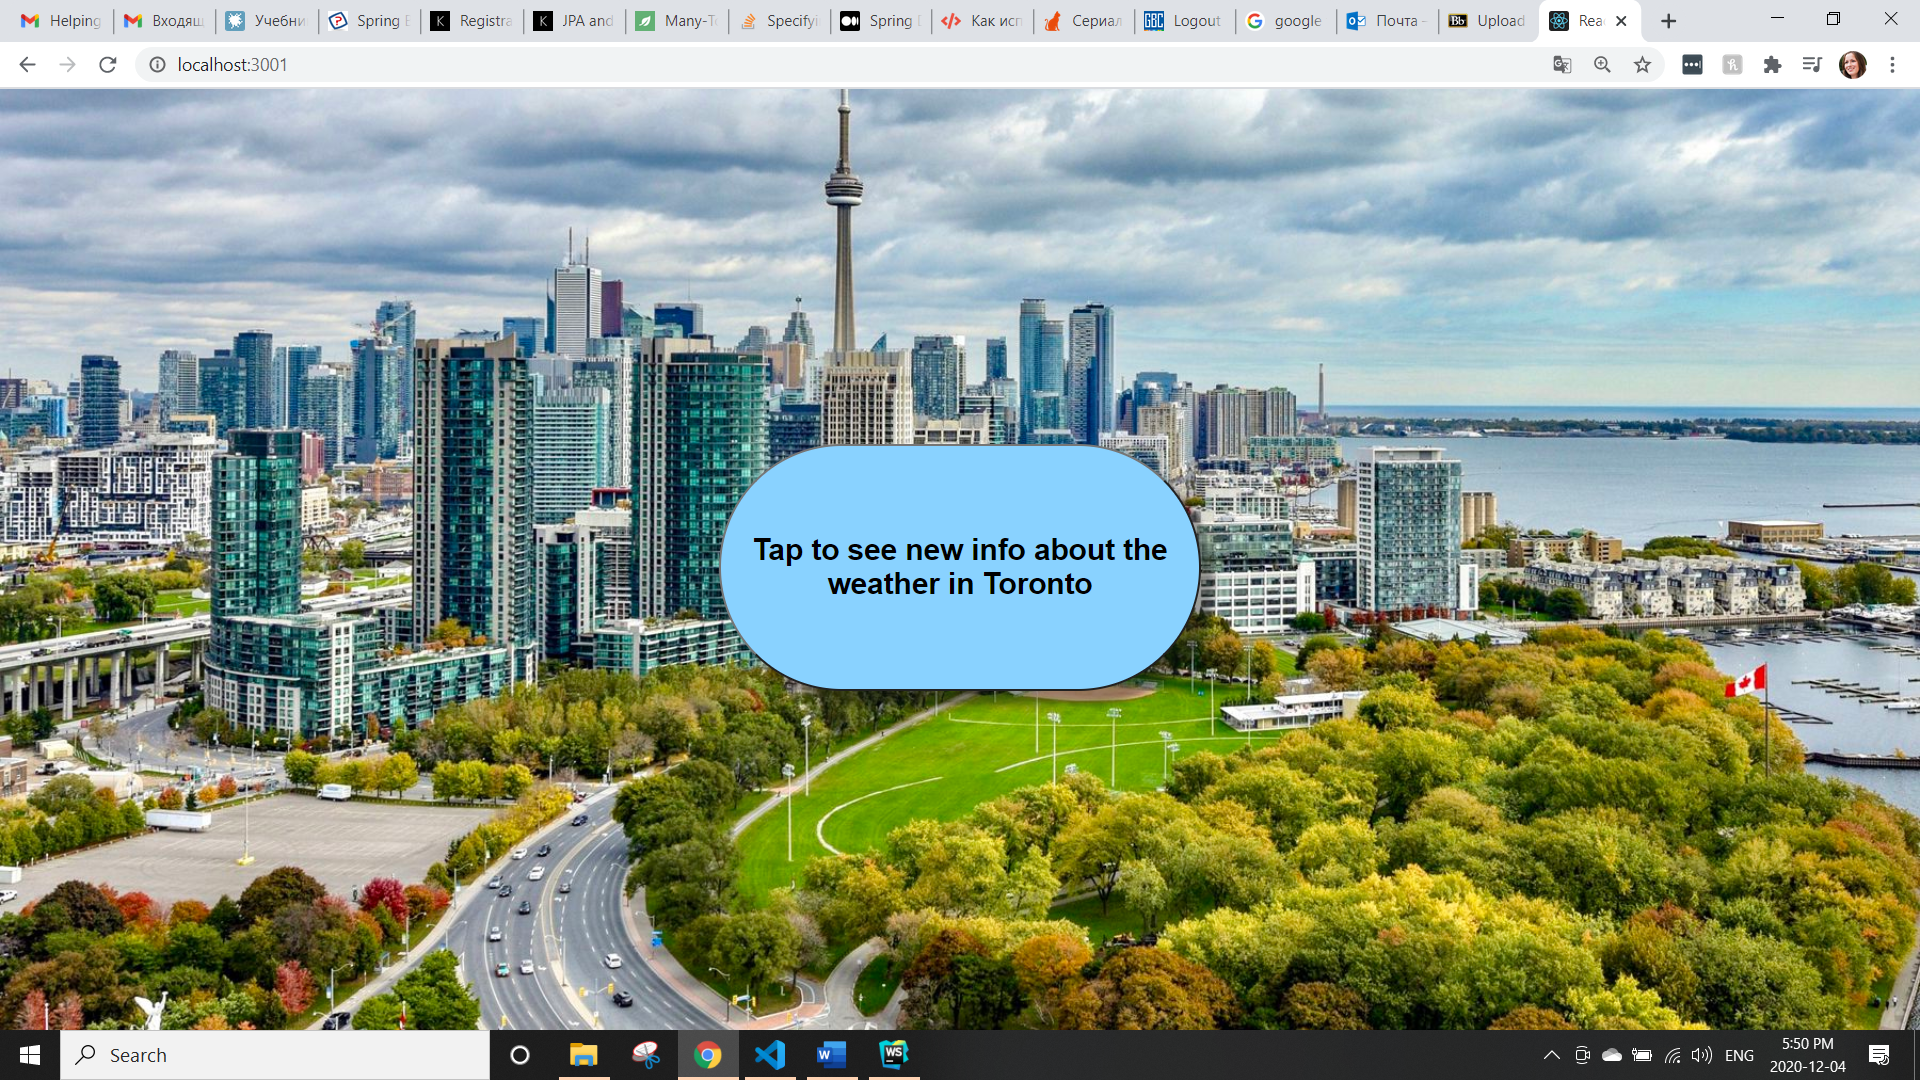
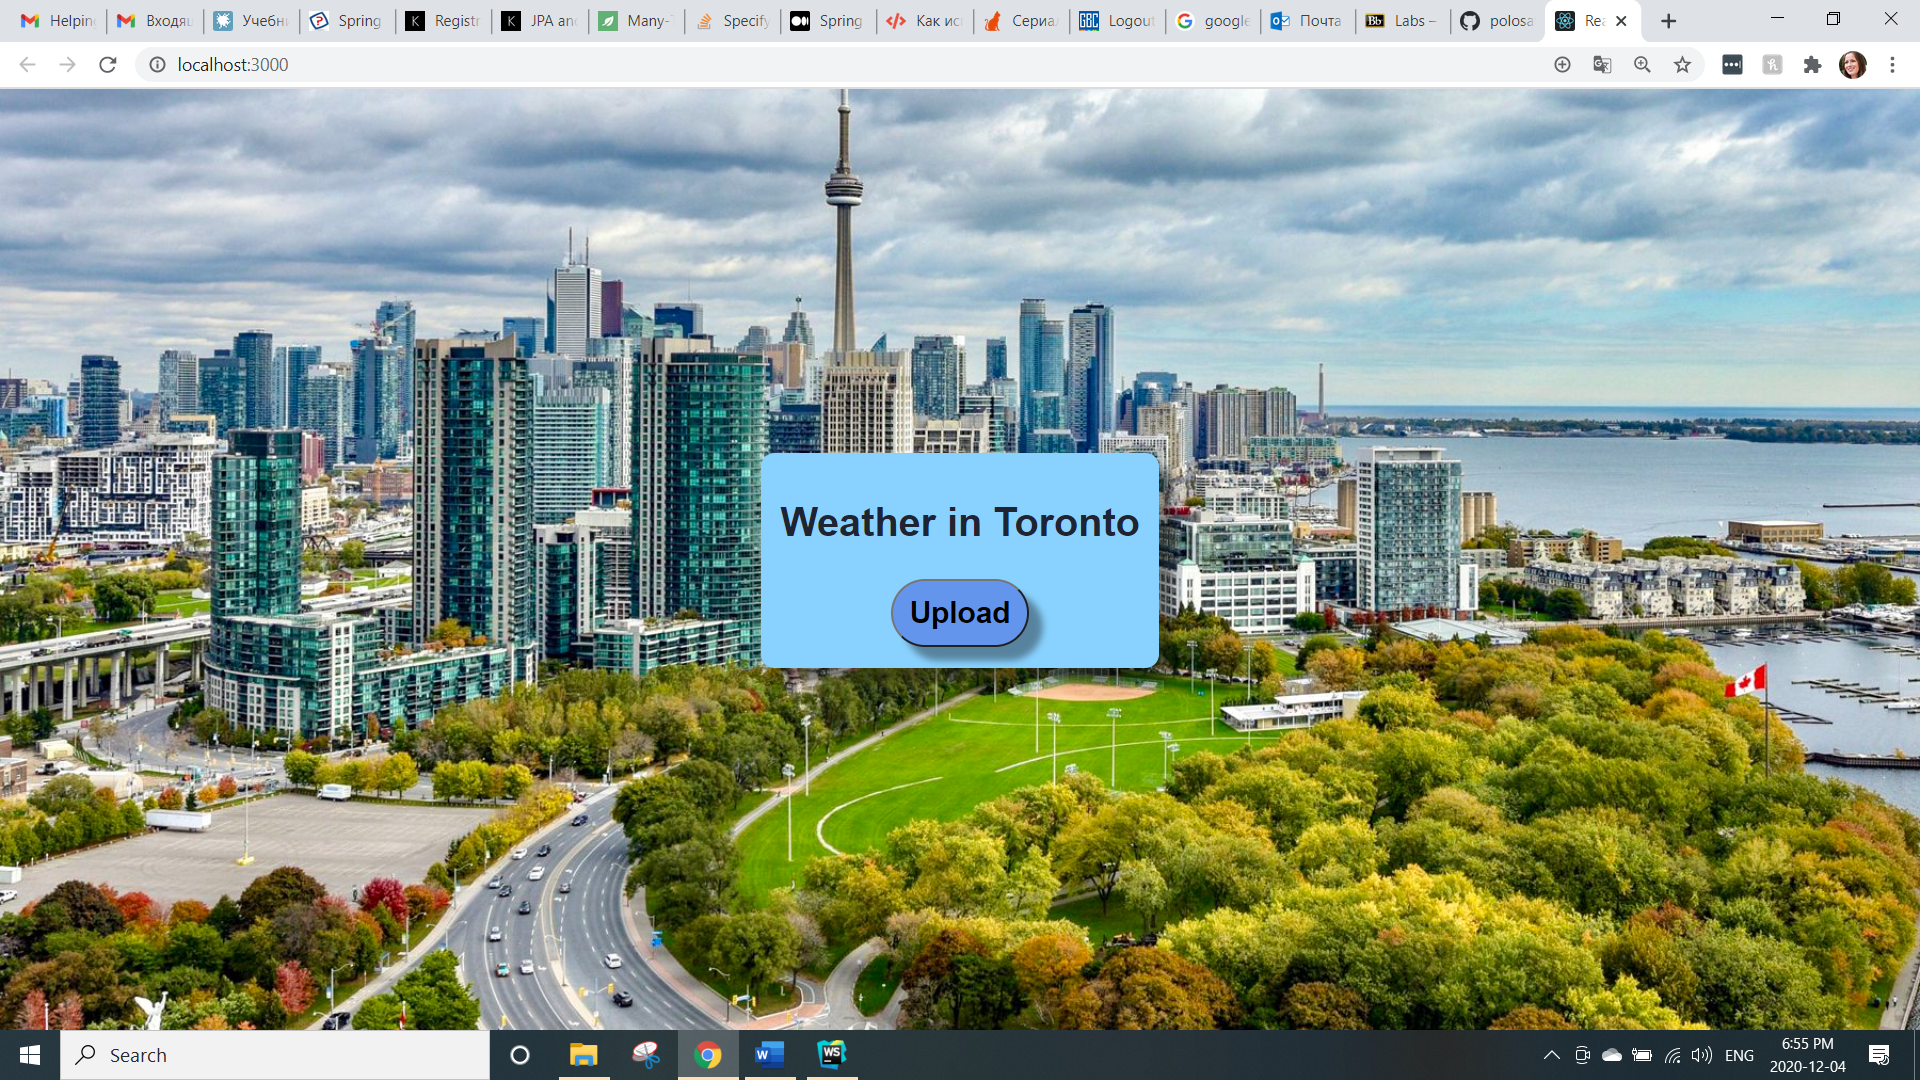
Change main page

diff --git a/src/Weather.js b/src/Weather.js
@@ -9,7 +9,7 @@ const Weather = () => {
     var date = new Date();
 
     const fetchWeather = async () => {
-        const { data } = await axios.get('http://api.openweathermap.org/data/2.5/weather?q=Toronto&units=metric&appid=6508c02ccc05f225734d2568a4c6dadd');     
+        const { data } = await axios.get('http://api.openweathermap.org/data/2.5/weather?q=Toronto&units=metric&appid=6508c02ccc05f225734d2568a4c6dadd');
         console.log(data);
         setWeather(data);
         return data;
@@ -17,11 +17,14 @@ const Weather = () => {
 
     return (
         <div className="main-container">
-            <button type="button" className="button-click" onClick={fetchWeather}>Tap to see new info about the weather in Toronto</button><br/>
+            <div className="topic">
+            <h1>Weather in Toronto</h1>
+            <button type="button" className="button-click" onClick={fetchWeather}>Upload</button><br/>
+            </div>
             {weather.main && (
                 <div className="city">
                     <h2 className="city-name"><span>{weather.name}, {weather.sys.country}</span></h2>
-                    <h3 className="city-name-med">{months[(date.getMonth()).toLocaleString()]} {date.getDate()}, {days[date.getDate()]}</h3>
+                    <h3 className="city-name-med">{months[(date.getMonth()).toLocaleString()]} {date.getDate()}, {days[date.getDate()]+1}</h3>
                     <div className="city-temp">{Math.round(weather.main.temp)}<sup>&deg;C</sup></div>
                     <div className="city-temp-medf">Feels like: {Math.round(weather.main.feels_like)}<sup>&deg;C</sup></div>
                     <div className="city-temp-mini">min: {Math.round(weather.main.temp_min)}<sup>&deg;C</sup> max: {Math.round(weather.main.temp_max)}<sup>&deg;C</sup></div>

diff --git a/src/App.css b/src/App.css
@@ -21,14 +21,26 @@ html, body, #root {
     flex-direction: column;
 }
 
+.topic {
+    font-size: 1rem;
+    font-weight: bold;
+    padding: 15px 1%;
+    justify-content: center;
+    text-align: center;
+    border-radius: 10px;
+    color: #1e2432 ;
+    background: rgb(137, 210, 255);
+    box-shadow: 10px 10px 5px 0px rgba(15, 15, 15, 0.404);
+}
+
 .button-click {
-    margin-top: 10px;
-    width: 350px;
-    height: 180px;
+    margin-top: 5px;
+    width: 100px;
+    height: 50px;
     font-size: 1.5rem;
     font-weight: bold;
-    border-radius: 150px;
-    background: rgb(137, 210, 255);
+    border-radius: 50px;
+    background: cornflowerblue;
     box-shadow: 10px 10px 5px 0px rgba(15, 15, 15, 0.404);
 }
 
